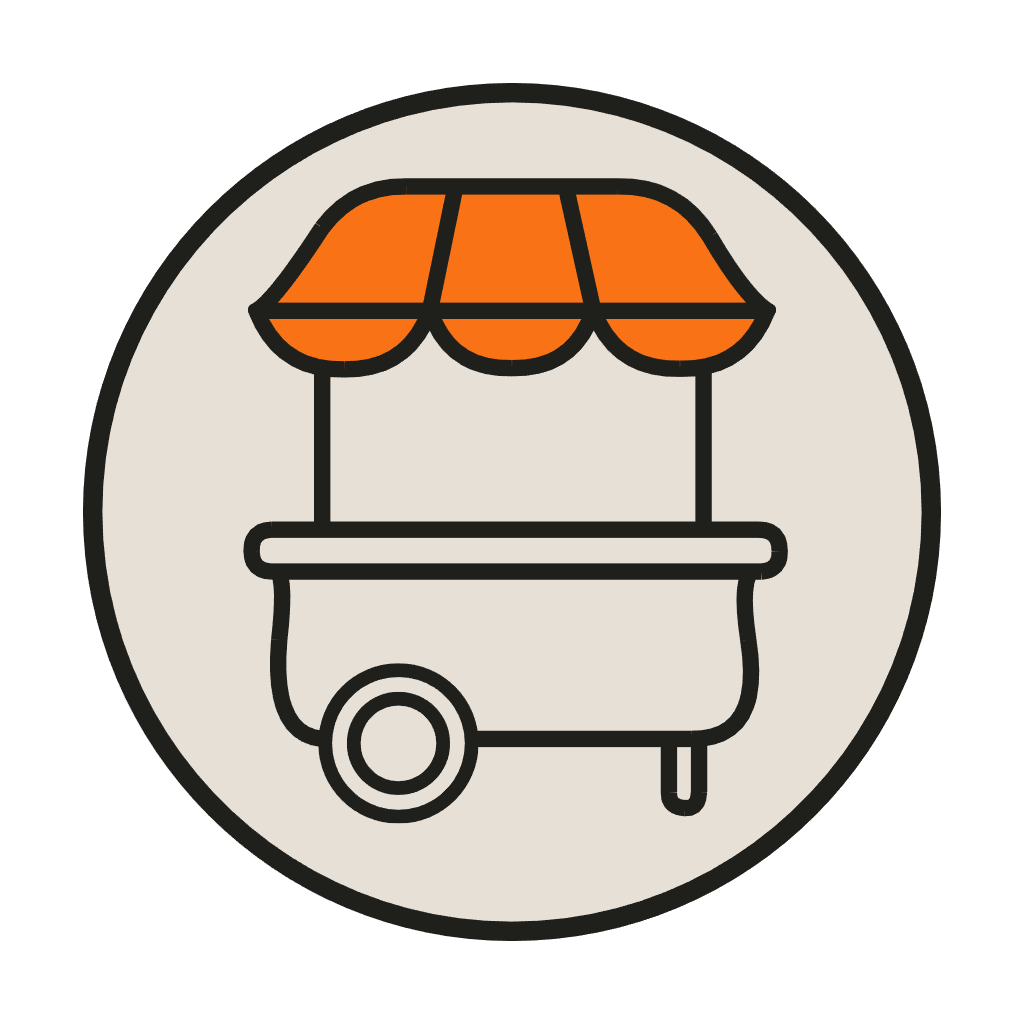
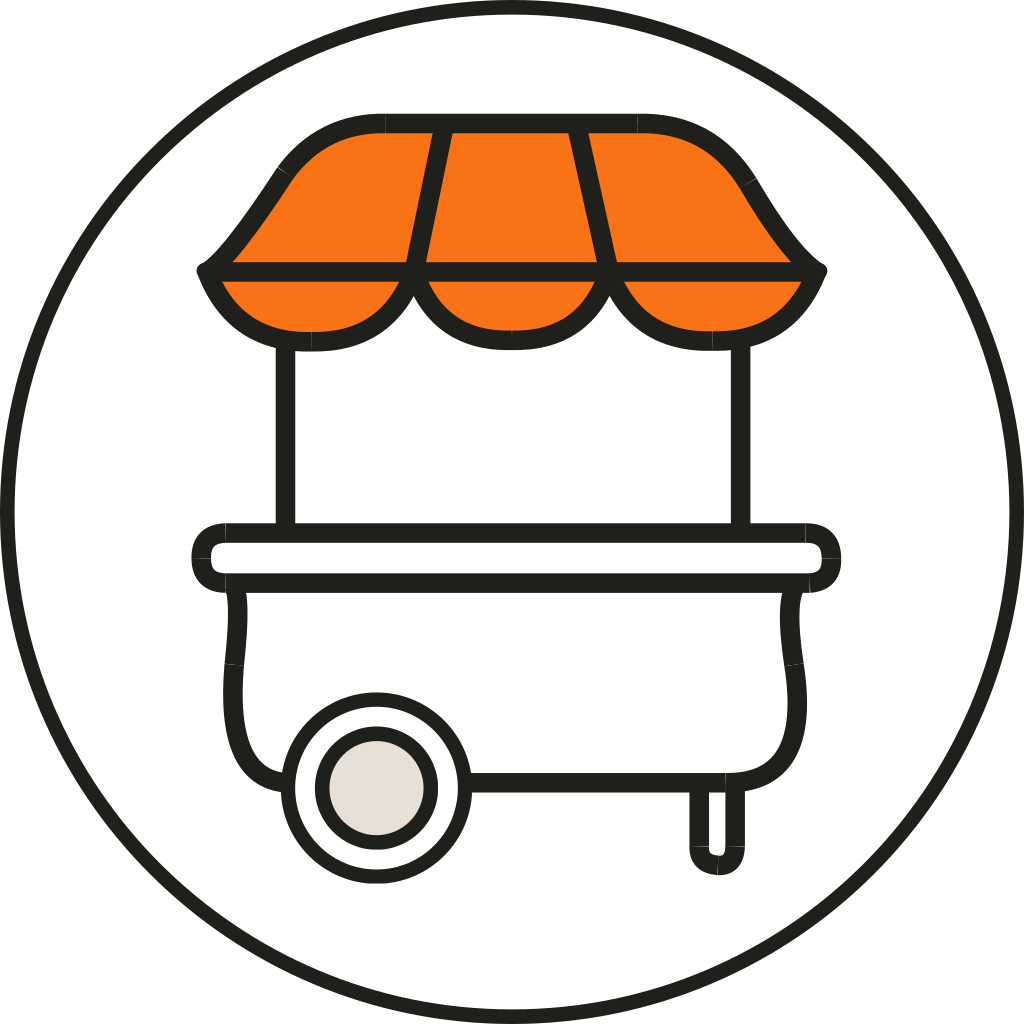
UX Tweaking 1.5.3

diff --git a/src/lib/brand-assets.ts b/src/lib/brand-assets.ts
@@ -1,7 +1,9 @@
 /** Platform-owned Open Order brand assets (local public paths). */
 export const BRAND = {
-  /** Circular food-cart mark — navbar, favicon, compact UI */
-  mark: "/brand/open-order/open-order-mark-circle.png",
+  /** Food-cart mark — transparent SVG for navbar, hero mobile, compact UI */
+  mark: "/brand/open-order/open-order-mark.svg",
+  /** Raster mark — favicon / apple-touch-icon source */
+  markRaster: "/brand/open-order/open-order-mark.png",
   /** Crisp SVG horizontal logo for dark hero/footer backgrounds */
   horizontalLogo: "/brand/open-order/open-order-horizontal.svg",
   /** Legacy raster horizontal (archival / fallback) */
@@ -12,7 +14,9 @@ export const BRAND = {
   horizontalLogoSilver: "/brand/open-order/open-order-horizontal-dark-silver.png",
   /** Full horizontal logo for light backgrounds — auth panels, marketing on cream */
   horizontalLogoLight: "/brand/open-order/open-order-horizontal-light.png",
-  /** Square food-cart mark without circle border */
+  /** Legacy circular mark with baked cream background (archival) */
+  markCircleLegacy: "/brand/open-order/open-order-mark-circle.png",
+  /** Square food-cart mark without circle border (archival raster) */
   markSquare: "/brand/open-order/open-order-mark-square.png",
   /** Circular brand seal — auth watermark, decorative brand areas */
   seal: "/brand/open-order/open-order-seal.png",
@@ -21,6 +25,9 @@ export const BRAND = {
 /** Cropped viewBox dimensions for `open-order-horizontal.svg` (2296×310). */
 export const HORIZONTAL_LOGO_INTRINSIC = { width: 2296, height: 310 } as const;
 
+/** Square viewBox for `open-order-mark.svg` (3000×3000). */
+export const MARK_INTRINSIC = { width: 3000, height: 3000 } as const;
+
 export const BRAND_ALT = {
   mark: "Open Order",
   horizontalLogo: "Open Order Co. — Order more. Serve more.",
@@ -28,6 +35,8 @@ export const BRAND_ALT = {
   horizontalLogoOpaque: "Open Order Co. — Order more. Serve more.",
   horizontalLogoSilver: "Open Order Co. — Order more. Serve more.",
   horizontalLogoLight: "Open Order Co. — Order more. Serve more.",
+  markRaster: "Open Order",
+  markCircleLegacy: "Open Order",
   markSquare: "Open Order",
   seal: "Open Order Co. — Order everywhere. Pay once.",
 } as const;

diff --git a/src/lib/brand-assets.test.ts b/src/lib/brand-assets.test.ts
@@ -1,5 +1,6 @@
 import { existsSync, readFileSync } from "node:fs";
 import { join } from "node:path";
+import sharp from "sharp";
 import { describe, expect, it } from "vitest";
 
 import { BRAND } from "@/lib/brand-assets";
@@ -20,8 +21,28 @@ describe("brand assets catalog", () => {
     expect(contents).toMatch(/viewBox="352 609 2296 310"/);
   });
 
+  it("uses a transparent mark SVG without baked canvas backgrounds", () => {
+    expect(BRAND.mark).toBe("/brand/open-order/open-order-mark.svg");
+    const svg = readFileSync(join(publicRoot, BRAND.mark), "utf8");
+    expect(svg).not.toMatch(/fill="#ffffff"/);
+    expect(svg).not.toMatch(/width="5184" fill="#e7e0d6"/);
+  });
+
+  it("uses a transparent raster mark for favicon surfaces", async () => {
+    expect(BRAND.markRaster).toBe("/brand/open-order/open-order-mark.png");
+    const { data } = await sharp(join(publicRoot, BRAND.markRaster))
+      .ensureAlpha()
+      .raw()
+      .toBuffer({ resolveWithObject: true });
+
+    const cornerAlpha = [0, 0, 1023, 1023].map((offset) => data[offset * 4 + 3]);
+    expect(cornerAlpha.every((alpha) => alpha === 0)).toBe(true);
+  });
+
   it("uses only approved catalog filenames", () => {
     const approved = new Set([
+      "open-order-mark.svg",
+      "open-order-mark.png",
       "open-order-mark-circle.png",
       "open-order-horizontal.svg",
       "open-order-horizontal-transparent.png",

diff --git a/src/components/brand/OpenOrderLogo.tsx b/src/components/brand/OpenOrderLogo.tsx
@@ -1,6 +1,6 @@
 import Image from "next/image";
 import Link from "next/link";
-import { BRAND, BRAND_ALT, HORIZONTAL_LOGO_INTRINSIC } from "@/lib/brand-assets";
+import { BRAND, BRAND_ALT, HORIZONTAL_LOGO_INTRINSIC, MARK_INTRINSIC } from "@/lib/brand-assets";
 import { cn } from "@/lib/cn";
 
 export type OpenOrderLogoVariant =
@@ -18,7 +18,7 @@ type OpenOrderLogoProps = {
   priority?: boolean;
 };
 
-const MARK_SIZE = { width: 56, height: 56 };
+const MARK_SIZE = MARK_INTRINSIC;
 
 export function OpenOrderLogo({
   variant = "header",
@@ -36,6 +36,7 @@ export function OpenOrderLogo({
           height={MARK_SIZE.height}
           className="h-10 w-10 shrink-0 object-contain sm:h-12 sm:w-12"
           priority={priority}
+          unoptimized
         />
       );
     }
@@ -50,6 +51,7 @@ export function OpenOrderLogo({
             height={MARK_SIZE.height}
             className="h-10 w-10 shrink-0 object-contain sm:h-12 sm:w-12"
             priority={priority}
+            unoptimized
             aria-hidden
           />
           <span className="hidden text-base font-semibold tracking-tight text-oo-warm-white sm:inline">

diff --git a/src/components/home/HomeHeroBrand.tsx b/src/components/home/HomeHeroBrand.tsx
@@ -1,6 +1,6 @@
 import Image from "next/image";
 
-import { BRAND, BRAND_ALT, HORIZONTAL_LOGO_INTRINSIC } from "@/lib/brand-assets";
+import { BRAND, BRAND_ALT, HORIZONTAL_LOGO_INTRINSIC, MARK_INTRINSIC } from "@/lib/brand-assets";
 import { cn } from "@/lib/cn";
 
 type HomeHeroBrandProps = {
@@ -35,9 +35,10 @@ export function HomeHeroBrand({
         <Image
           src={BRAND.mark}
           alt=""
-          width={80}
-          height={80}
+          width={MARK_INTRINSIC.width}
+          height={MARK_INTRINSIC.height}
           priority={priority}
+          unoptimized
           className="h-16 w-16 shrink-0 object-contain"
           aria-hidden
         />

diff --git a/src/components/home/HomeHero.tsx b/src/components/home/HomeHero.tsx
@@ -57,7 +57,7 @@ export function HomeHero() {
         <div className="flex flex-col animate-oo-fade-up motion-reduce:animate-none">
           <HomeHeroBrand size="homepage" />
 
-          <h1 className="mt-6 max-w-2xl text-3xl font-black leading-tight tracking-tight text-oo-warm-white sm:mt-7 sm:text-4xl md:text-[2.75rem] md:leading-[1.1]">
+          <h1 className="mt-7 max-w-2xl text-3xl font-black leading-tight tracking-tight text-oo-warm-white sm:mt-10 sm:text-4xl md:text-[2.75rem] md:leading-[1.1]">
             {HOME_HERO_HEADLINE}
           </h1>
           <p className="mt-5 max-w-xl text-base leading-relaxed text-oo-cream/70 sm:mt-6 sm:text-lg">

diff --git a/src/app/homepage-marketing.test.ts b/src/app/homepage-marketing.test.ts
@@ -34,10 +34,12 @@ describe("homepage marketing positioning", () => {
     expect(heroBrandSrc).toMatch(/Open Order/);
     expect(heroBrandSrc).toMatch(/homepage/);
     expect(BRAND.horizontalLogo).toBe("/brand/open-order/open-order-horizontal.svg");
+    expect(BRAND.mark).toBe("/brand/open-order/open-order-mark.svg");
     expect(heroBrandSrc).toMatch(/1100/);
     expect(heroBrandSrc).not.toMatch(/mix-blend-screen/);
     expect(heroBrandSrc).toMatch(/sm:hidden/);
     expect(heroSrc).toMatch(/HomeHeroBrand size=\"homepage\"/);
+    expect(heroSrc).toMatch(/mt-7.*sm:mt-10/);
   });
 
   it("leads with pod-owner-first hero copy", () => {
